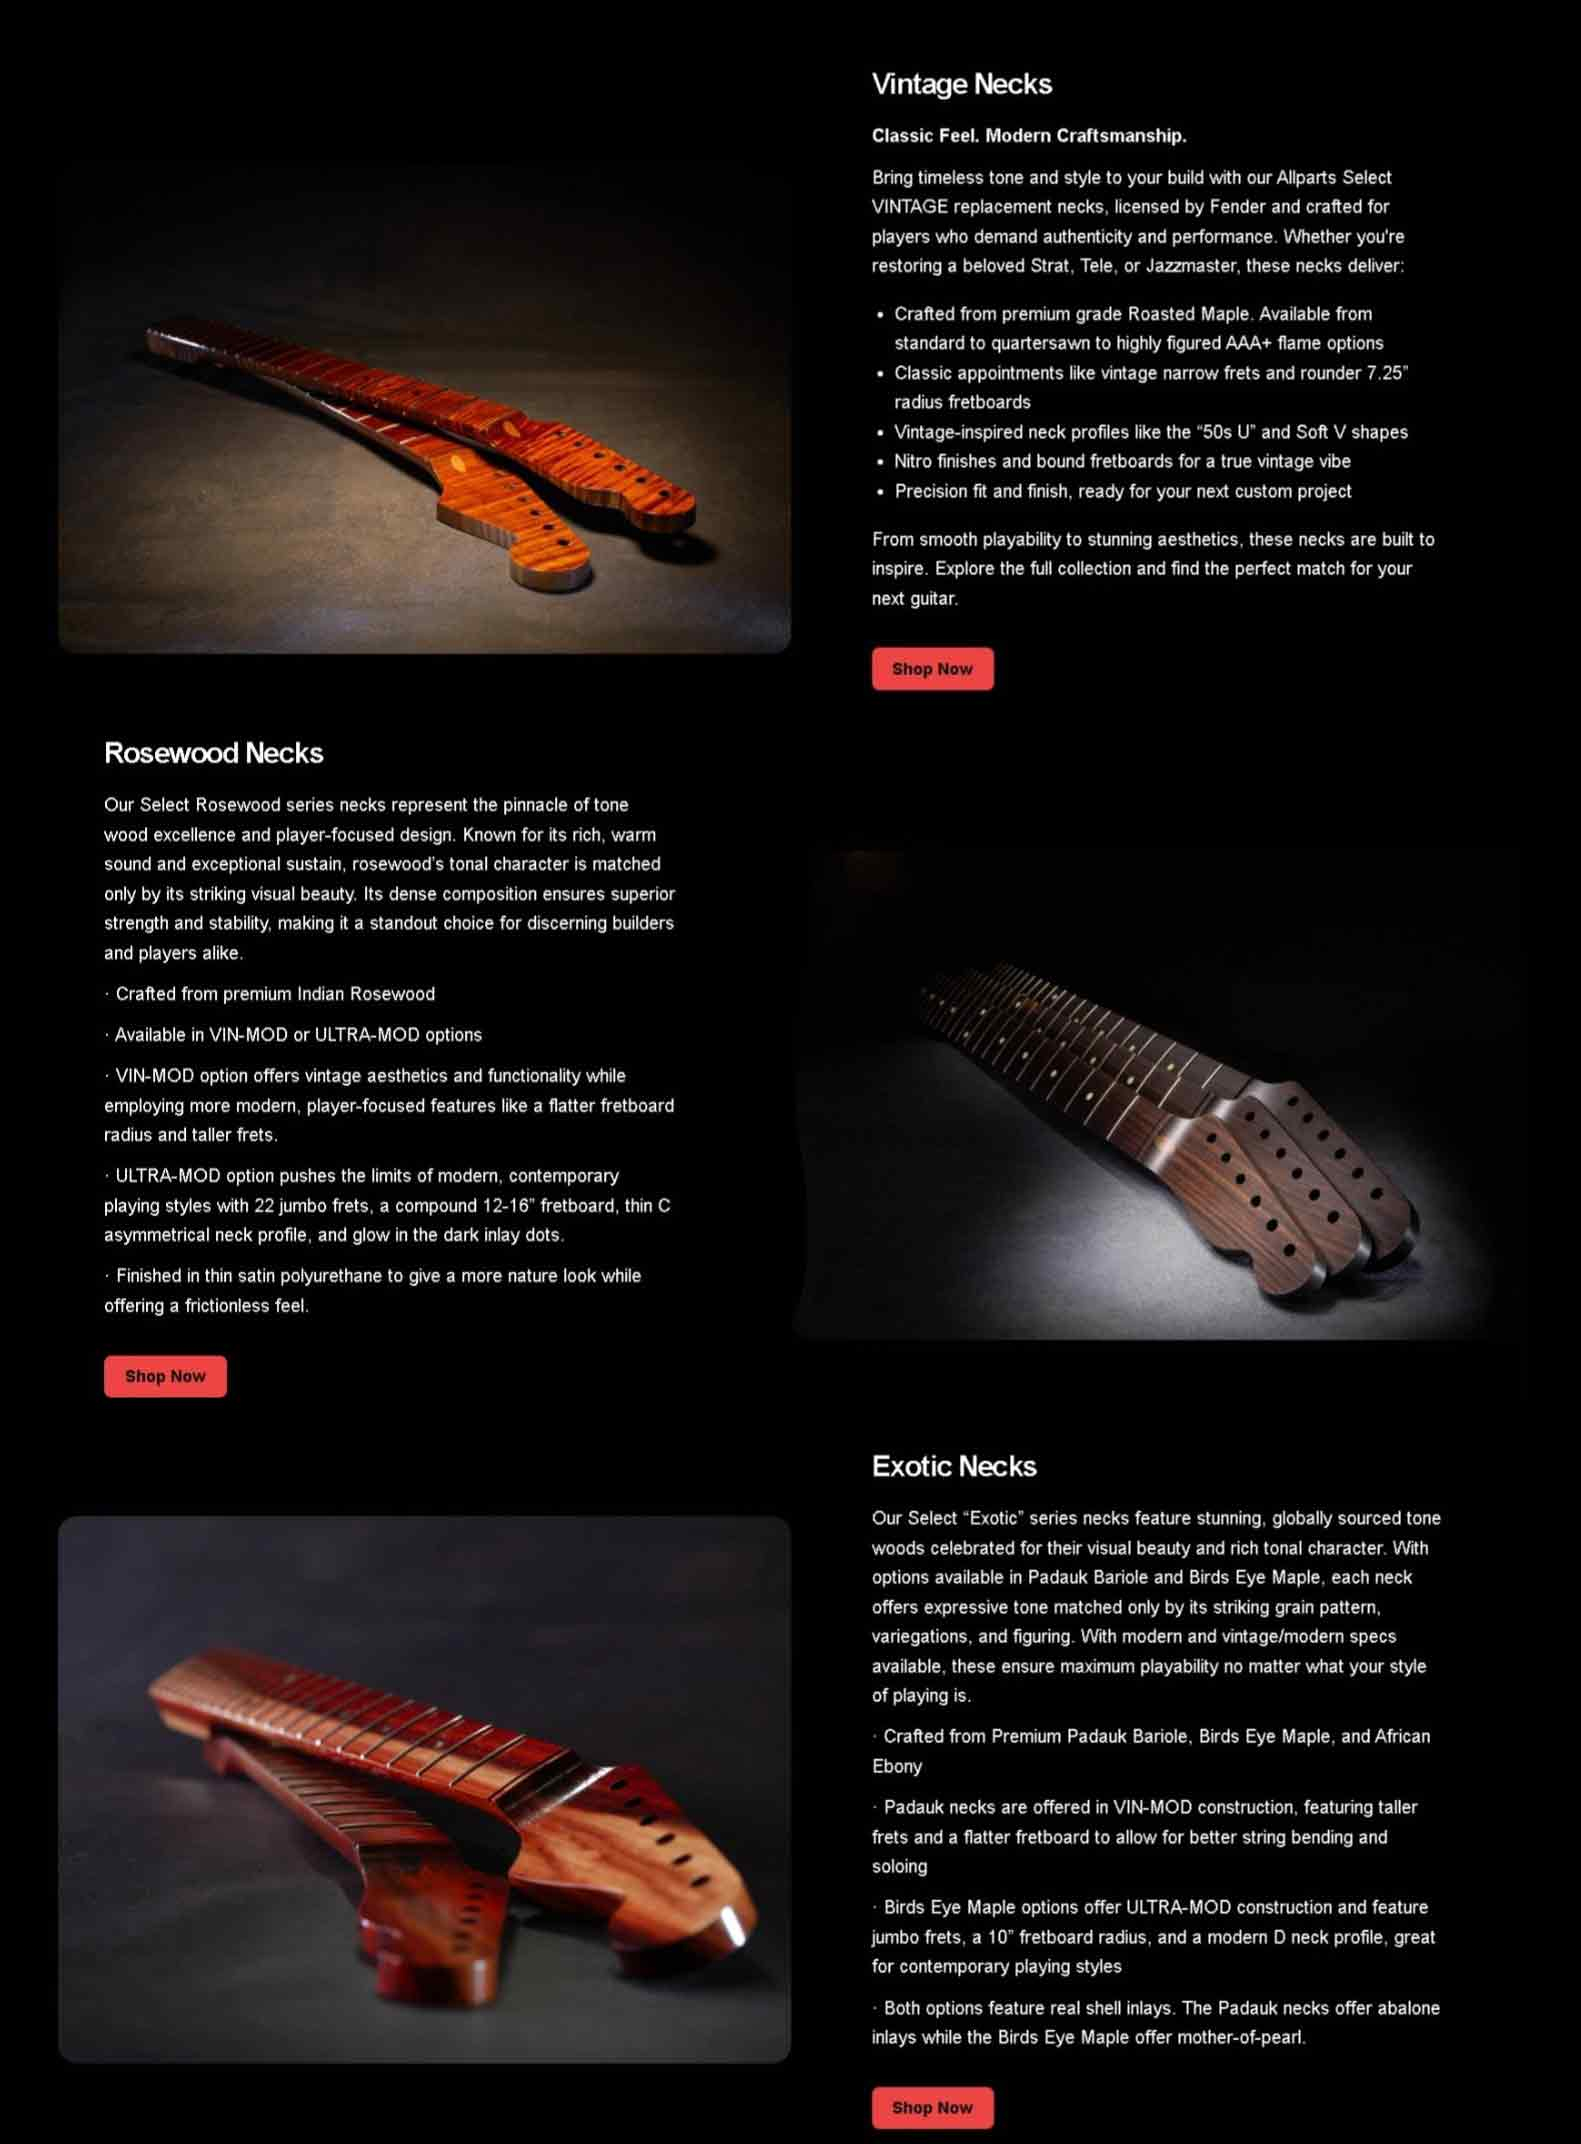
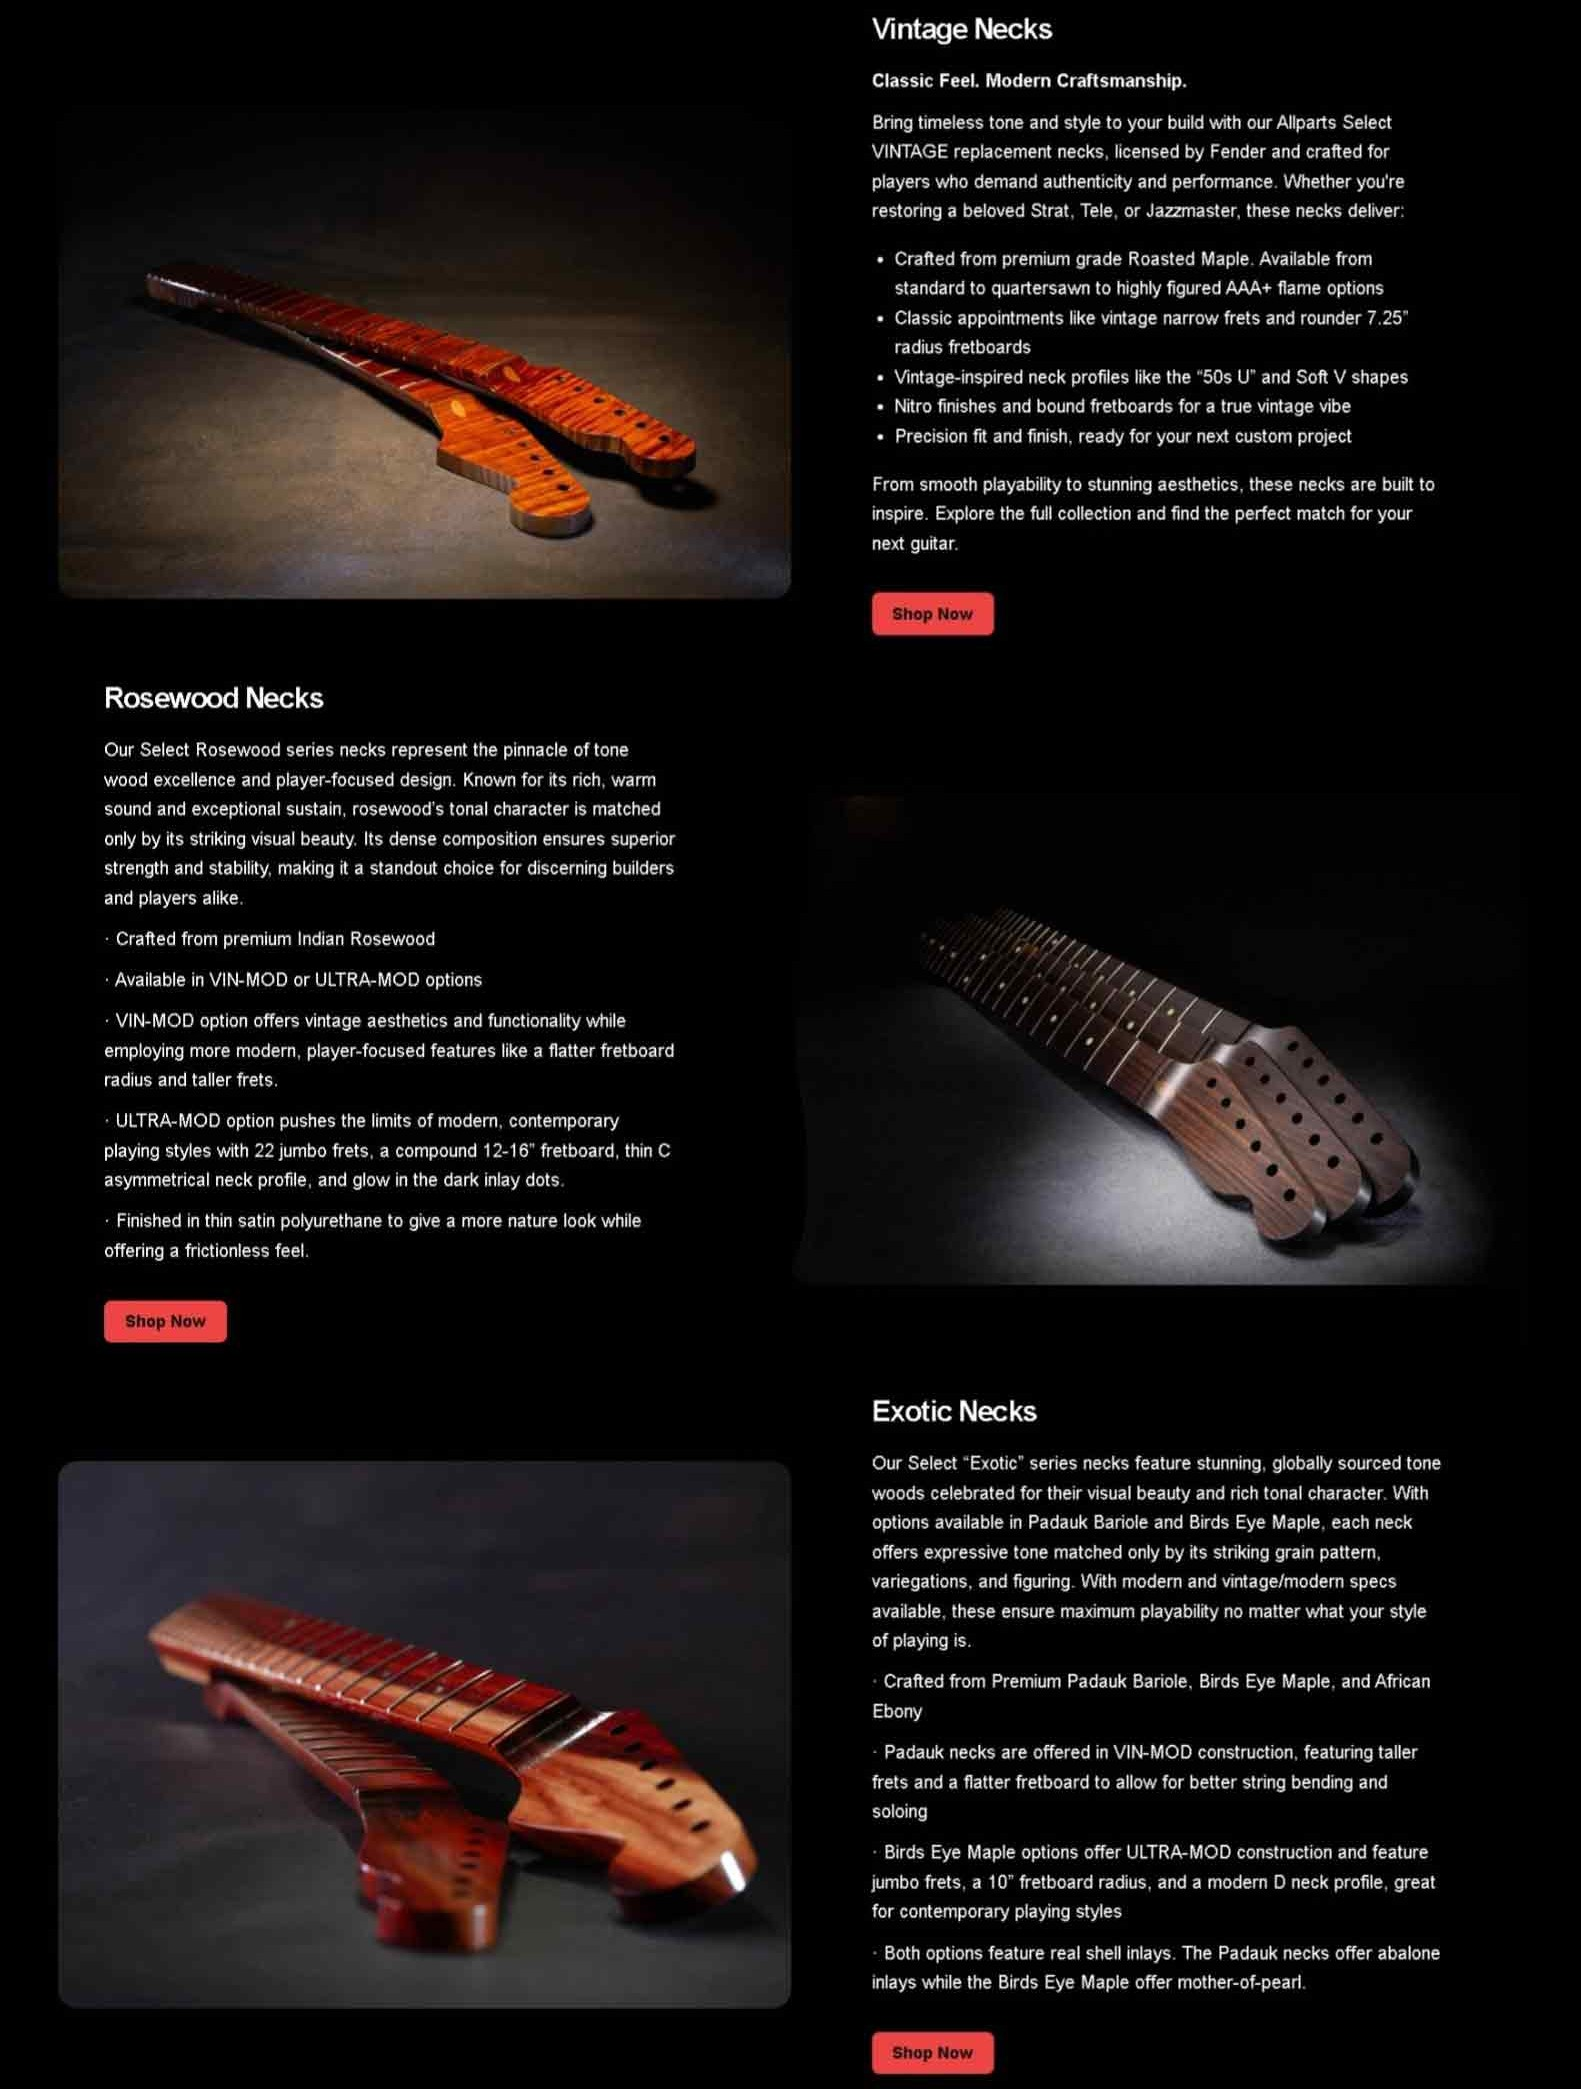
jhkj

diff --git a/web-assets.html b/web-assets.html
@@ -204,7 +204,7 @@
         <img src="webdev-sites/Screenshot_18-12-2025_181145_www.allparts.com.jpeg" style="border-radius:10px; border: 1.5px solid darkslategray;"><br>
         <br><br>
 
-        <h4>Allparts Select</h4><br>
+        <h4>Allparts Select</h4><br><br>
         <img src="webdev-sites/top of select page.jpeg">
         <img src="webdev-sites/middle of select page.jpg">
         <img src="webdev-sites/bottom of select page.jpg">
